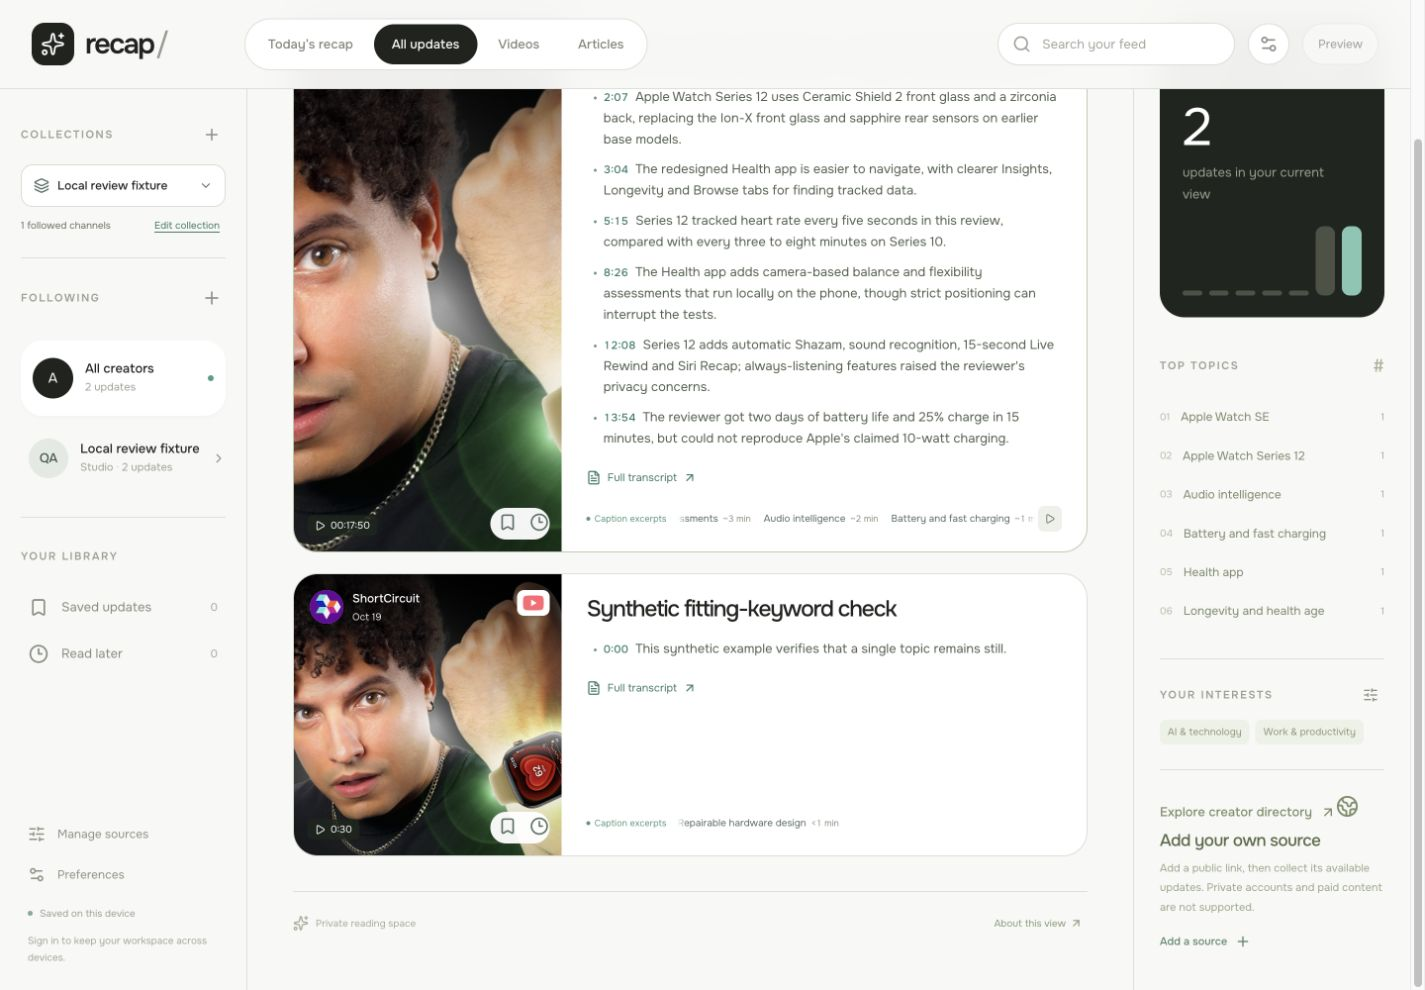
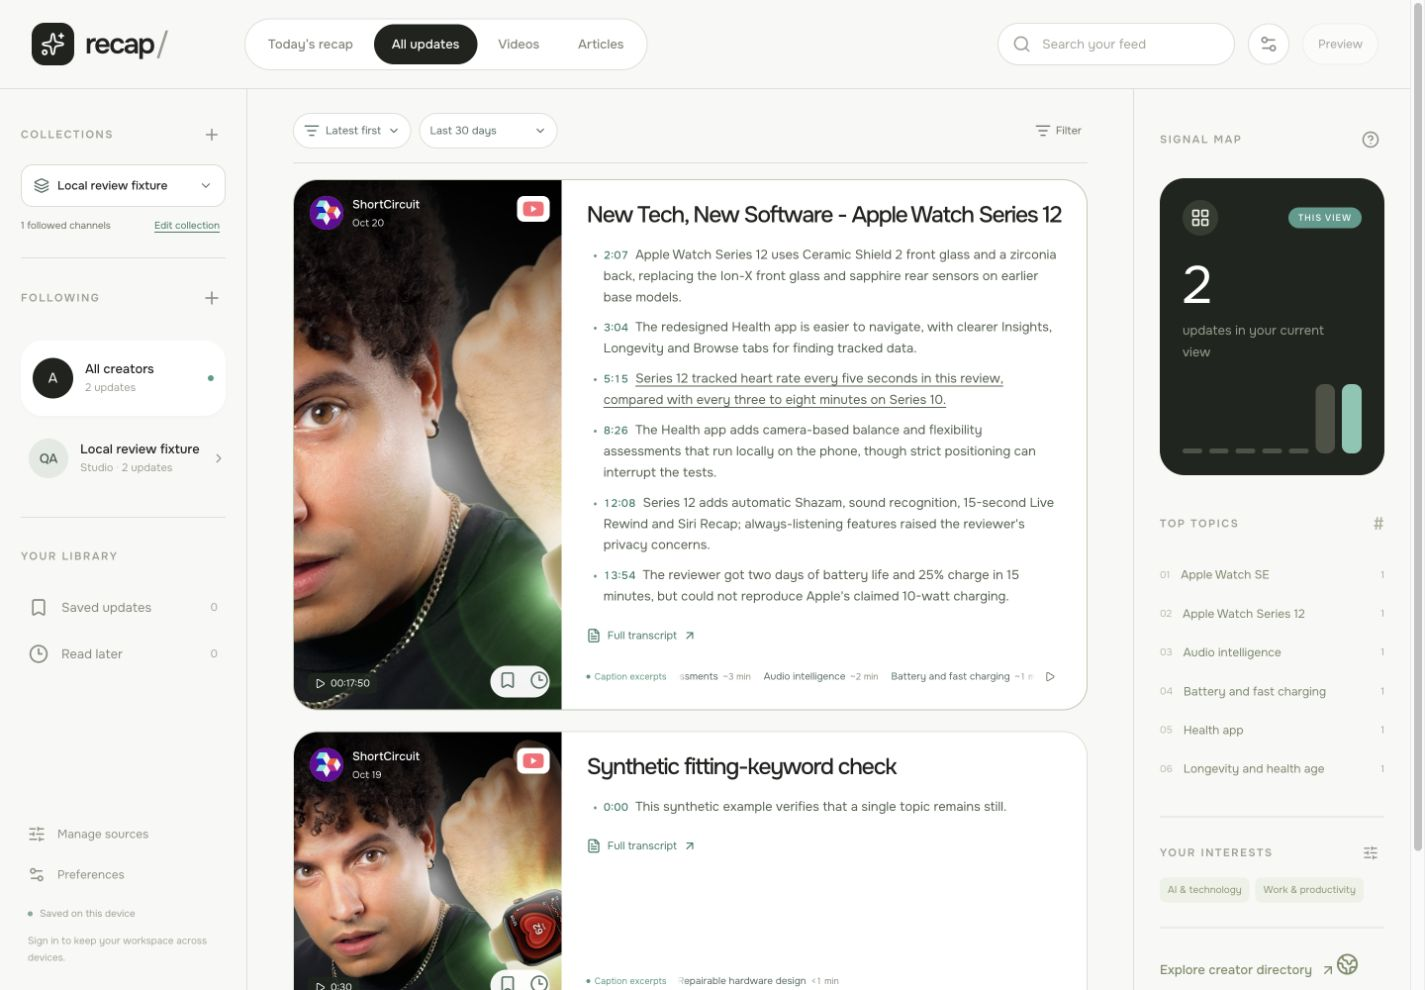
Record verified LMG summary review [skip ci]

diff --git a/STATUS.md b/STATUS.md
@@ -6,7 +6,7 @@ Updated: **22 October 2026**. Phase: **functioning v0, admin, creator catalogue 
 
 The founder rejected literal caption snippets and requested concise, synthesized findings based on the full Apple Watch reference, applied across existing LMG videos, with duration-ranked keywords scrolling behind a fixed “Caption excerpts” label. The [writing rule](docs/design/VIDEO-SUMMARY-RULE.md) replaces literal selection for this review batch. All **144 LMG video records** were reviewed: **132 editorial summaries**, three promotional-only clips intentionally empty, nine without captions. The full captions of all 135 captioned records were read, with claim review; 132 use caption timing and three use actual publisher chapters. This is actual one-off model-authored caption analysis, not a daily cross-source recap or automatic future generation. Other creators remain unchanged. [Scope and evidence](docs/design/LMG-TAKEAWAYS.md).
 
-UI, data validation and guarded annotation batch preparation are implemented. **477 tests**, typecheck/build/catalogue pass. Local fixed-label, overflow/static, pause and narrow resize checks pass. All 15 annotation batches applied and exact readback passed: 144 planned records, all 278 IDs, original captions, other creators and the complete owner workspace/revision are unchanged apart from the intended annotations. The batch stores 543 takeaways and 718 keywords. Checked deployment remains. No new supplier collection, generated transcription, external model API job or schedule was started. Broader SPEC/PLAN v1.1 remains unapproved.
+UI, data validation and guarded annotation batch preparation are implemented. **477 tests**, typecheck/build/catalogue pass. Local fixed-label, overflow/static, pause and narrow resize checks pass. All 15 annotation batches applied and exact readback passed: 144 planned records, all 278 IDs, original captions, other creators and the complete owner workspace/revision are unchanged apart from the intended annotations. The batch stores 543 takeaways and 718 keywords. Functional **`700a5ba`** passed [CI 39687357951](https://github.com/raduvlad92/recap/actions/runs/39687357951), exact Netlify deploy **`6ad93df078636b862cc05415`** is live, and signed-in owner desktop/mobile, keyword pause/resume and complete reference-transcript checks passed. D25 is complete; the reference is open for founder review. No new supplier collection, generated transcription, external model API job or schedule was started. Broader SPEC/PLAN v1.1 remains unapproved.
 
 ## Historical D24 checkpoint: YouTube cards and Shorts visibility
 
@@ -114,7 +114,7 @@ No customer outreach, paid customer trial, payment or external email sending is 
 
 ## Next action
 
-Finish D25 annotation readback, CI, exact deployment and signed-in owner review; all 144 analyses and local checks are complete. D24 remains deployed and verified. The founder can review the [live video cards and Shorts settings](https://recap-v0-radu.netlify.app/); [D24 evidence](docs/design/YOUTUBE-CARDS.md) is saved. No setup action is pending. The D23 compact toolbar remains verified. No new source investigation or provider execution is part of this design task. The bounded D22 delivery remains complete, with exact results saved in [the verification report](docs/tech/VERIFICATION.md); its 19 empty/blocked sources and incomplete history remain tracked follow-up work. No provider login, API token, new account or payment is needed from the founder. The founder can review the [live workspace](https://recap-v0-radu.netlify.app), [admin](https://recap-v0-radu.netlify.app/admin/) and [creator directory](https://recap-v0-radu.netlify.app/creators/) using the updated [morning guide](docs/v0/MORNING.md).
+D25 is complete: all 144 LMG records reviewed, exact annotation/account readback, CI, deployment and actual signed-in owner checks passed. Review the concise LMG takeaways and timed keyword strip in the live app; no setup action is pending. The Apple Watch reference is open in the review tab. D24 remains verified. The founder can review the [live video cards and Shorts settings](https://recap-v0-radu.netlify.app/); [D24 evidence](docs/design/YOUTUBE-CARDS.md) is saved. No setup action is pending. The D23 compact toolbar remains verified. No new source investigation or provider execution is part of this design task. The bounded D22 delivery remains complete, with exact results saved in [the verification report](docs/tech/VERIFICATION.md); its 19 empty/blocked sources and incomplete history remain tracked follow-up work. No provider login, API token, new account or payment is needed from the founder. The founder can review the [live workspace](https://recap-v0-radu.netlify.app), [admin](https://recap-v0-radu.netlify.app/admin/) and [creator directory](https://recap-v0-radu.netlify.app/creators/) using the updated [morning guide](docs/v0/MORNING.md).
 
 The bounded D22 jobs are finished; no recurring collection or reminder schedule is running. Further product engineering remains tracked in the [tech plan](docs/tech/PLAN.md), [admin continuation work](docs/admin/PLAN.md#continuation-work) and [v0 plan](docs/v0/PLAN.md#continuation-work). Broader SPEC/PLAN v1.1 remains a candidate, and customer outreach, paid trials and charging are not authorized.
 

diff --git a/docs/DEMO-LOG.md b/docs/DEMO-LOG.md
@@ -165,11 +165,11 @@ Scoped founder video-card request implemented: channel identity overlays the thu
 
 Bounded direct YouTube caption retrieval produced 171 complete timing arrays; three truncated exports and one unavailable video retain saved plaintext without guessed links. Existing raw metadata established 184 exact video identities and 38 explicit Shorts. All 28 revision-checked metadata batches applied; exact readback confirmed 278 retained IDs, all 184 planned video records, 13 icons, two restored long captions and unchanged unrelated owner state. Backups/exports stay private; no supplier jobs/model execution/generated transcription. Final release is complete: **`4776a91`**, CI **39681814688**, exact Netlify deploy **`6ad9338066d4f42065087597`** at **21:50:14 UTC**. Signed-in owner desktop/mobile layout, actual icons/timestamps, a **226,113-character** full transcript, and Shorts hide/reload/re-enable passed. Readback retained all archive data and expected owner state; original visibility/viewport were restored. The last refinement reduces short captions to fewer bullets, verified as two points on the real 48-second video. Local guest storage was restored, temporary tabs closed and the dev server stopped. Next: founder review. Hosting/build/database costs are not measured.
 
-## 22 October 2026 — D25 concise LMG summaries and keyword motion, in progress
+## 22 October 2026 — D25 concise LMG summaries and keyword motion, deployed and verified
 
 Type: actual one-off caption analysis plus local UI fixtures. Full saved captions read for all **135 captioned LMG videos**; **144 records** reviewed, producing **132 editorial summaries**, three promotional-only empty annotations and nine caption-unavailable records without invented summaries. Source evidence quotations/hashes remain private. 132 caption-timed videos and three chapter-timed long shows; durations are interval-based section estimates. [Rule and reference](design/VIDEO-SUMMARY-RULE.md), [verification](design/LMG-TAKEAWAYS.md). Actual source captions and unrelated account data are preserved by the scoped stale-record/revision checks.
 
-**477 tests**, typecheck/build/catalogue pass; local fixed-label, infinite overflow, fitting/static, pause and 320→350px recovery checks pass. All 15 annotation batches applied; exact readback retained all 278 IDs, source captions, other creators and the exact unchanged owner workspace/revision. Output: 543 takeaways / 718 keywords. CI/deployment and hosted owner checks remain. No source job, generated transcription, new subscription, external model API job or recurring automation. Development-session and hosting/database costs are unmeasured. Next: finish checked publication for founder review.
+**477 tests**, typecheck/build/catalogue pass; local fixed-label, infinite overflow, fitting/static, pause and 320→350px recovery checks pass. All 15 annotation batches applied; exact readback retained all 278 IDs, source captions, other creators and the exact unchanged owner workspace/revision. Output: 543 takeaways / 718 keywords. Functional **`700a5ba`** passed CI **39687357951** and exact Netlify deploy **`6ad93df078636b862cc05415`** at **22:34:50 UTC, 21 October**. Actual signed-in owner 1496/390px, six concise reference points, nine keywords, pause/resume, complete 19,705-character transcript, synced state and zero browser errors passed. Viewport and local guest fixtures restored; temporary tabs closed and dev server stopped. The live reference search is open for founder review. No source job, generated transcription, new subscription, external model API job or recurring automation. Development-session and hosting/database costs are unmeasured. Next: founder review of the existing-LMG batch.
 
 ## Required format for future entries
 

diff --git a/docs/design/LMG-TAKEAWAYS.md b/docs/design/LMG-TAKEAWAYS.md
@@ -30,4 +30,10 @@ Annotations are stored separately from source captions as `videoSummary`, `video
 
 Local reference-plus-synthetic checks verify fixed provenance, infinite overflow/equal-width copies, a static fitting list, pause and 320px → 350px overflow recovery without page overflow. The shared preview ignored two phone viewport requests, so Chrome is used for responsive proof. Chrome checks at **1440/1051/390/350/320px** passed without horizontal overflow. The label stayed in the same position while keywords moved; the repeated group had equal width and a visible duplicate keyword successfully applied its topic filter. The 320→350px regression changed the fitting list from animated to static. [Desktop fixture](evidence/lmg-summary-desktop-fixture.png), [phone fixture](evidence/lmg-summary-phone-fixture.png), [sanitized local checks](evidence/lmg-summary-local-checks.json).
 
-All **15 SQL batches** applied. Exact readback at **22:30:41 UTC, 21 October** confirmed all **144 planned records**, all **278 existing record IDs**, the entire unchanged owner workspace/revision, unchanged other creators and unchanged source text. The stored batch contains **543 takeaways and 718 keywords**, with **132 editorial summaries / three promotional-only / nine caption-unavailable** records. [Sanitized readback](evidence/lmg-summary-readback.json). Caption evidence, input/output annotations, SQL and complete private before/after backups remain ignored. GitHub CI, exact deployment and signed-in owner evidence follow after release.
+All **15 SQL batches** applied. Exact readback at **22:30:41 UTC, 21 October** confirmed all **144 planned records**, all **278 existing record IDs**, the entire unchanged owner workspace/revision, unchanged other creators and unchanged source text. The stored batch contains **543 takeaways and 718 keywords**, with **132 editorial summaries / three promotional-only / nine caption-unavailable** records. [Sanitized readback](evidence/lmg-summary-readback.json). Caption evidence, input/output annotations, SQL and complete private before/after backups remain ignored. GitHub CI, exact deployment and signed-in owner evidence are complete below.
+
+## Final release
+
+Functional **`700a5ba`** is pushed, passed [CI 39687357951](https://github.com/raduvlad92/recap/actions/runs/39687357951), and exact Netlify deploy **`6ad93df078636b862cc05415`** published at **22:34:50 UTC, 21 October** (22 October local time). The actual signed-in owner view loaded the matching `index-C80t4iR0.js` asset and passed **1496/390px** checks: six concise reference takeaways, nine weighted keywords, fixed provenance/infinite overflow, pause/resume, the entire **19,705-character** transcript, synced state, no horizontal overflow and no browser errors. The reference search is left open for founder review; viewport restored. Local guest fixtures were restored, temporary tabs closed and development server stopped. Source captions and the complete owner workspace/revision were preserved by exact readback. [Sanitized release proof](evidence/lmg-summary-release.json).
+
+D25 is complete. Next is founder review of the existing-LMG batch before expanding this summary style to other creators or implementing automatic future generation. No setup or authentication step is pending.

diff --git a/PLAN.md b/PLAN.md
@@ -10,7 +10,7 @@ The founder explicitly requested autonomous implementation on 21 October (D20). 
 
 ## Current authorized concise-summary increment — D25
 
-Read the complete reference and existing LMG captions, replace literal snippets with concise supported takeaways, create duration-ranked specific keywords and an overflow-only infinite strip beside fixed provenance. Preserve source/account data. Rule and annotations are complete for **144 videos**, with **132 editorial summaries / three promotional-only / nine without captions**; 132 caption-timed and three chapter-timed captioned records. **477 tests**, typecheck/build/catalogue and local motion/resize checks pass. All 15 batches applied; exact readback preserved all 278 records, source text, other creators and the complete owner workspace. Checked hosted delivery remains. [Rule](docs/design/VIDEO-SUMMARY-RULE.md), [evidence](docs/design/LMG-TAKEAWAYS.md). No new collection, provider subscription, generated transcription or recurring model execution is included.
+Read the complete reference and existing LMG captions, replace literal snippets with concise supported takeaways, create duration-ranked specific keywords and an overflow-only infinite strip beside fixed provenance. Preserve source/account data. Rule and annotations are complete for **144 videos**, with **132 editorial summaries / three promotional-only / nine without captions**; 132 caption-timed and three chapter-timed captioned records. **477 tests**, typecheck/build/catalogue and local motion/resize checks pass. All 15 batches applied; exact readback preserved all 278 records, source text, other creators and the complete owner workspace. Complete: **`700a5ba`**, passing CI **39687357951**, exact Netlify deploy **`6ad93df078636b862cc05415`** and actual owner desktop/mobile, full-transcript and keyword pause/resume verification. Next: founder review of the LMG batch. [Rule](docs/design/VIDEO-SUMMARY-RULE.md), [evidence](docs/design/LMG-TAKEAWAYS.md). No new collection, provider subscription, generated transcription or recurring model execution is included.
 
 ## Historical authorized video-card increment — D24
 

diff --git a/docs/DECISIONS.md b/docs/DECISIONS.md
@@ -34,7 +34,7 @@ Original requested product behavior: topics rather than a simple post list; snip
 
 Founder rejected literal/verbose bullet excerpts and asked to read the full Apple Watch Series 12 reference, derive a reusable concise finding/comparison rule, apply it to every existing LMG video, and generate keywords weighted by discussion minutes. Keep “Caption excerpts” fixed while overflowing keywords animate in one infinite line beneath it. This explicitly authorizes the scoped model-authored review batch using existing captions, private annotation persistence and UI publication. It does not authorize new source collection, supplier subscriptions, external model API spending, recurring generation or the full SPEC/PLAN candidate. [Rule](design/VIDEO-SUMMARY-RULE.md), [delivery](design/LMG-TAKEAWAYS.md).
 
-D25 local/data verification: 477 tests, typecheck/build/catalogue and 1440/1051/390/350/320px motion/resize checks passed. All 15 annotation batches applied; exact readback matched the intended 144 records and unchanged captions, other creators and complete owner workspace. Batch output is 543 concise takeaways and 718 duration-ranked keywords. Deployment/owner evidence follows in the delivery record.
+D25 local/data verification: 477 tests, typecheck/build/catalogue and 1440/1051/390/350/320px motion/resize checks passed. All 15 annotation batches applied; exact readback matched the intended 144 records and unchanged captions, other creators and complete owner workspace. Batch output is 543 concise takeaways and 718 duration-ranked keywords. Functional **`700a5ba`** passed CI **39687357951**, exact Netlify deploy **`6ad93df078636b862cc05415`** is live, and actual owner desktop/mobile, complete transcript and keyword pause/resume checks passed. Founder review is next; exact evidence is in the delivery record.
 
 ## D24 — YouTube content cards and Shorts visibility
 
